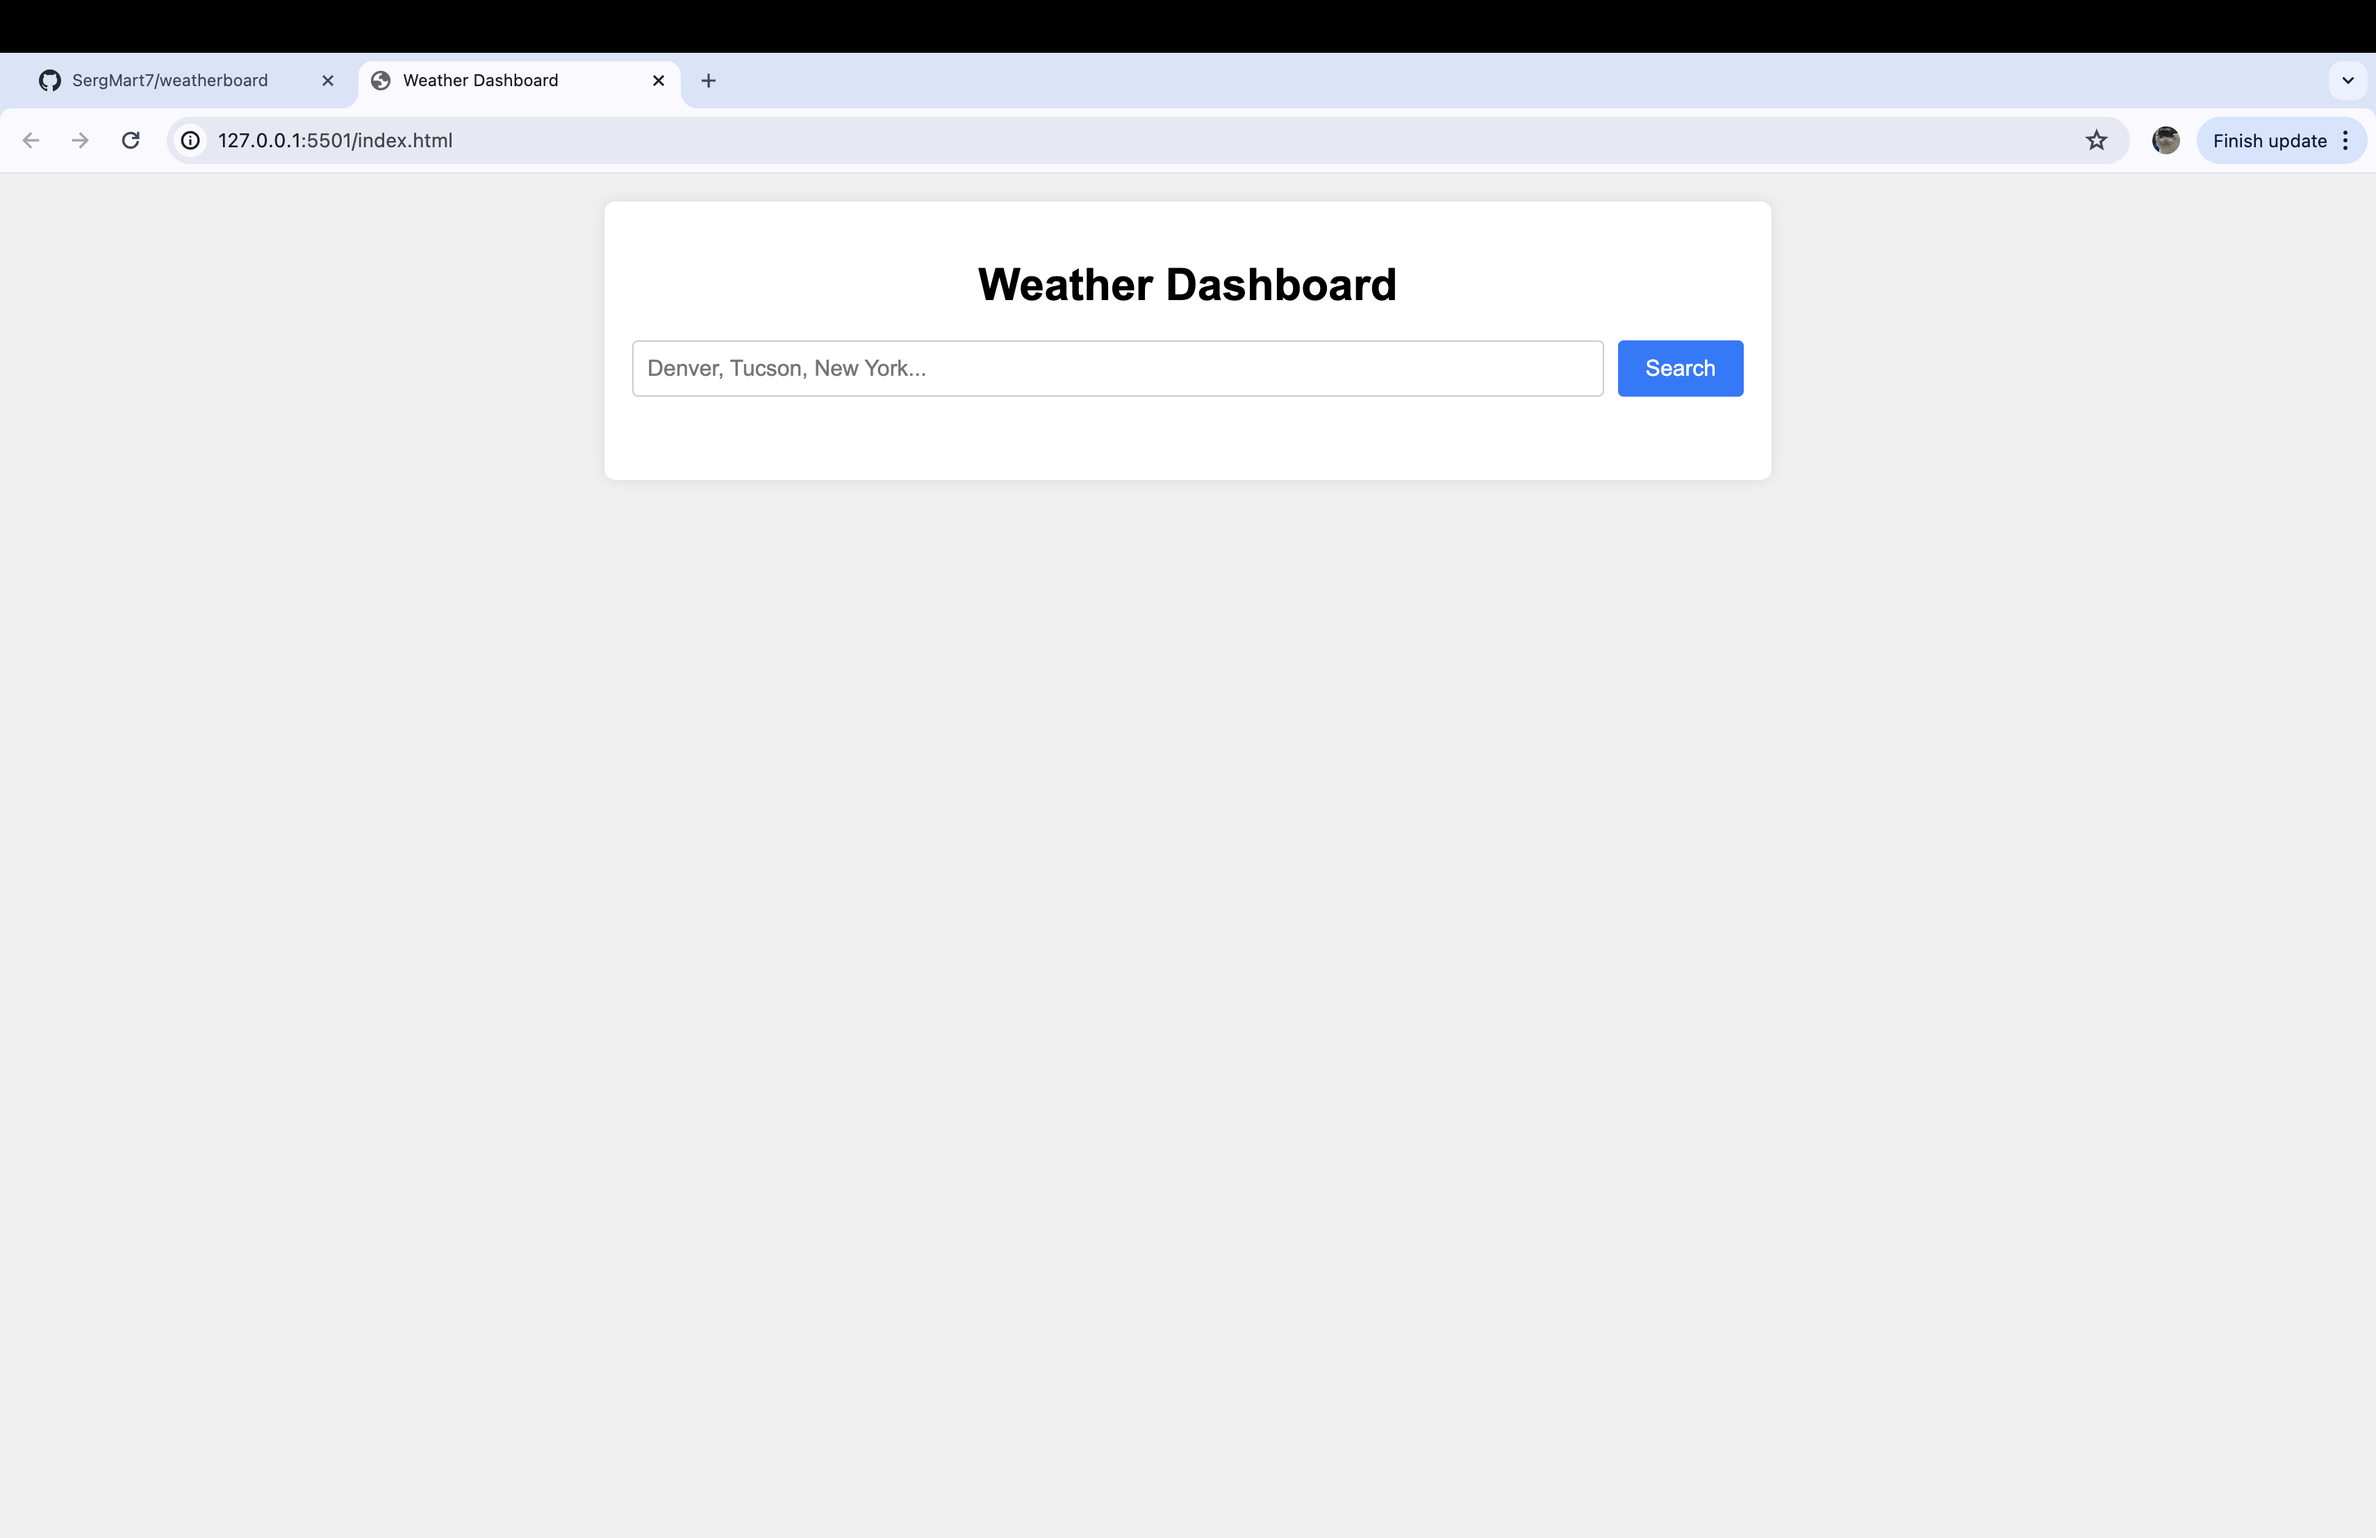
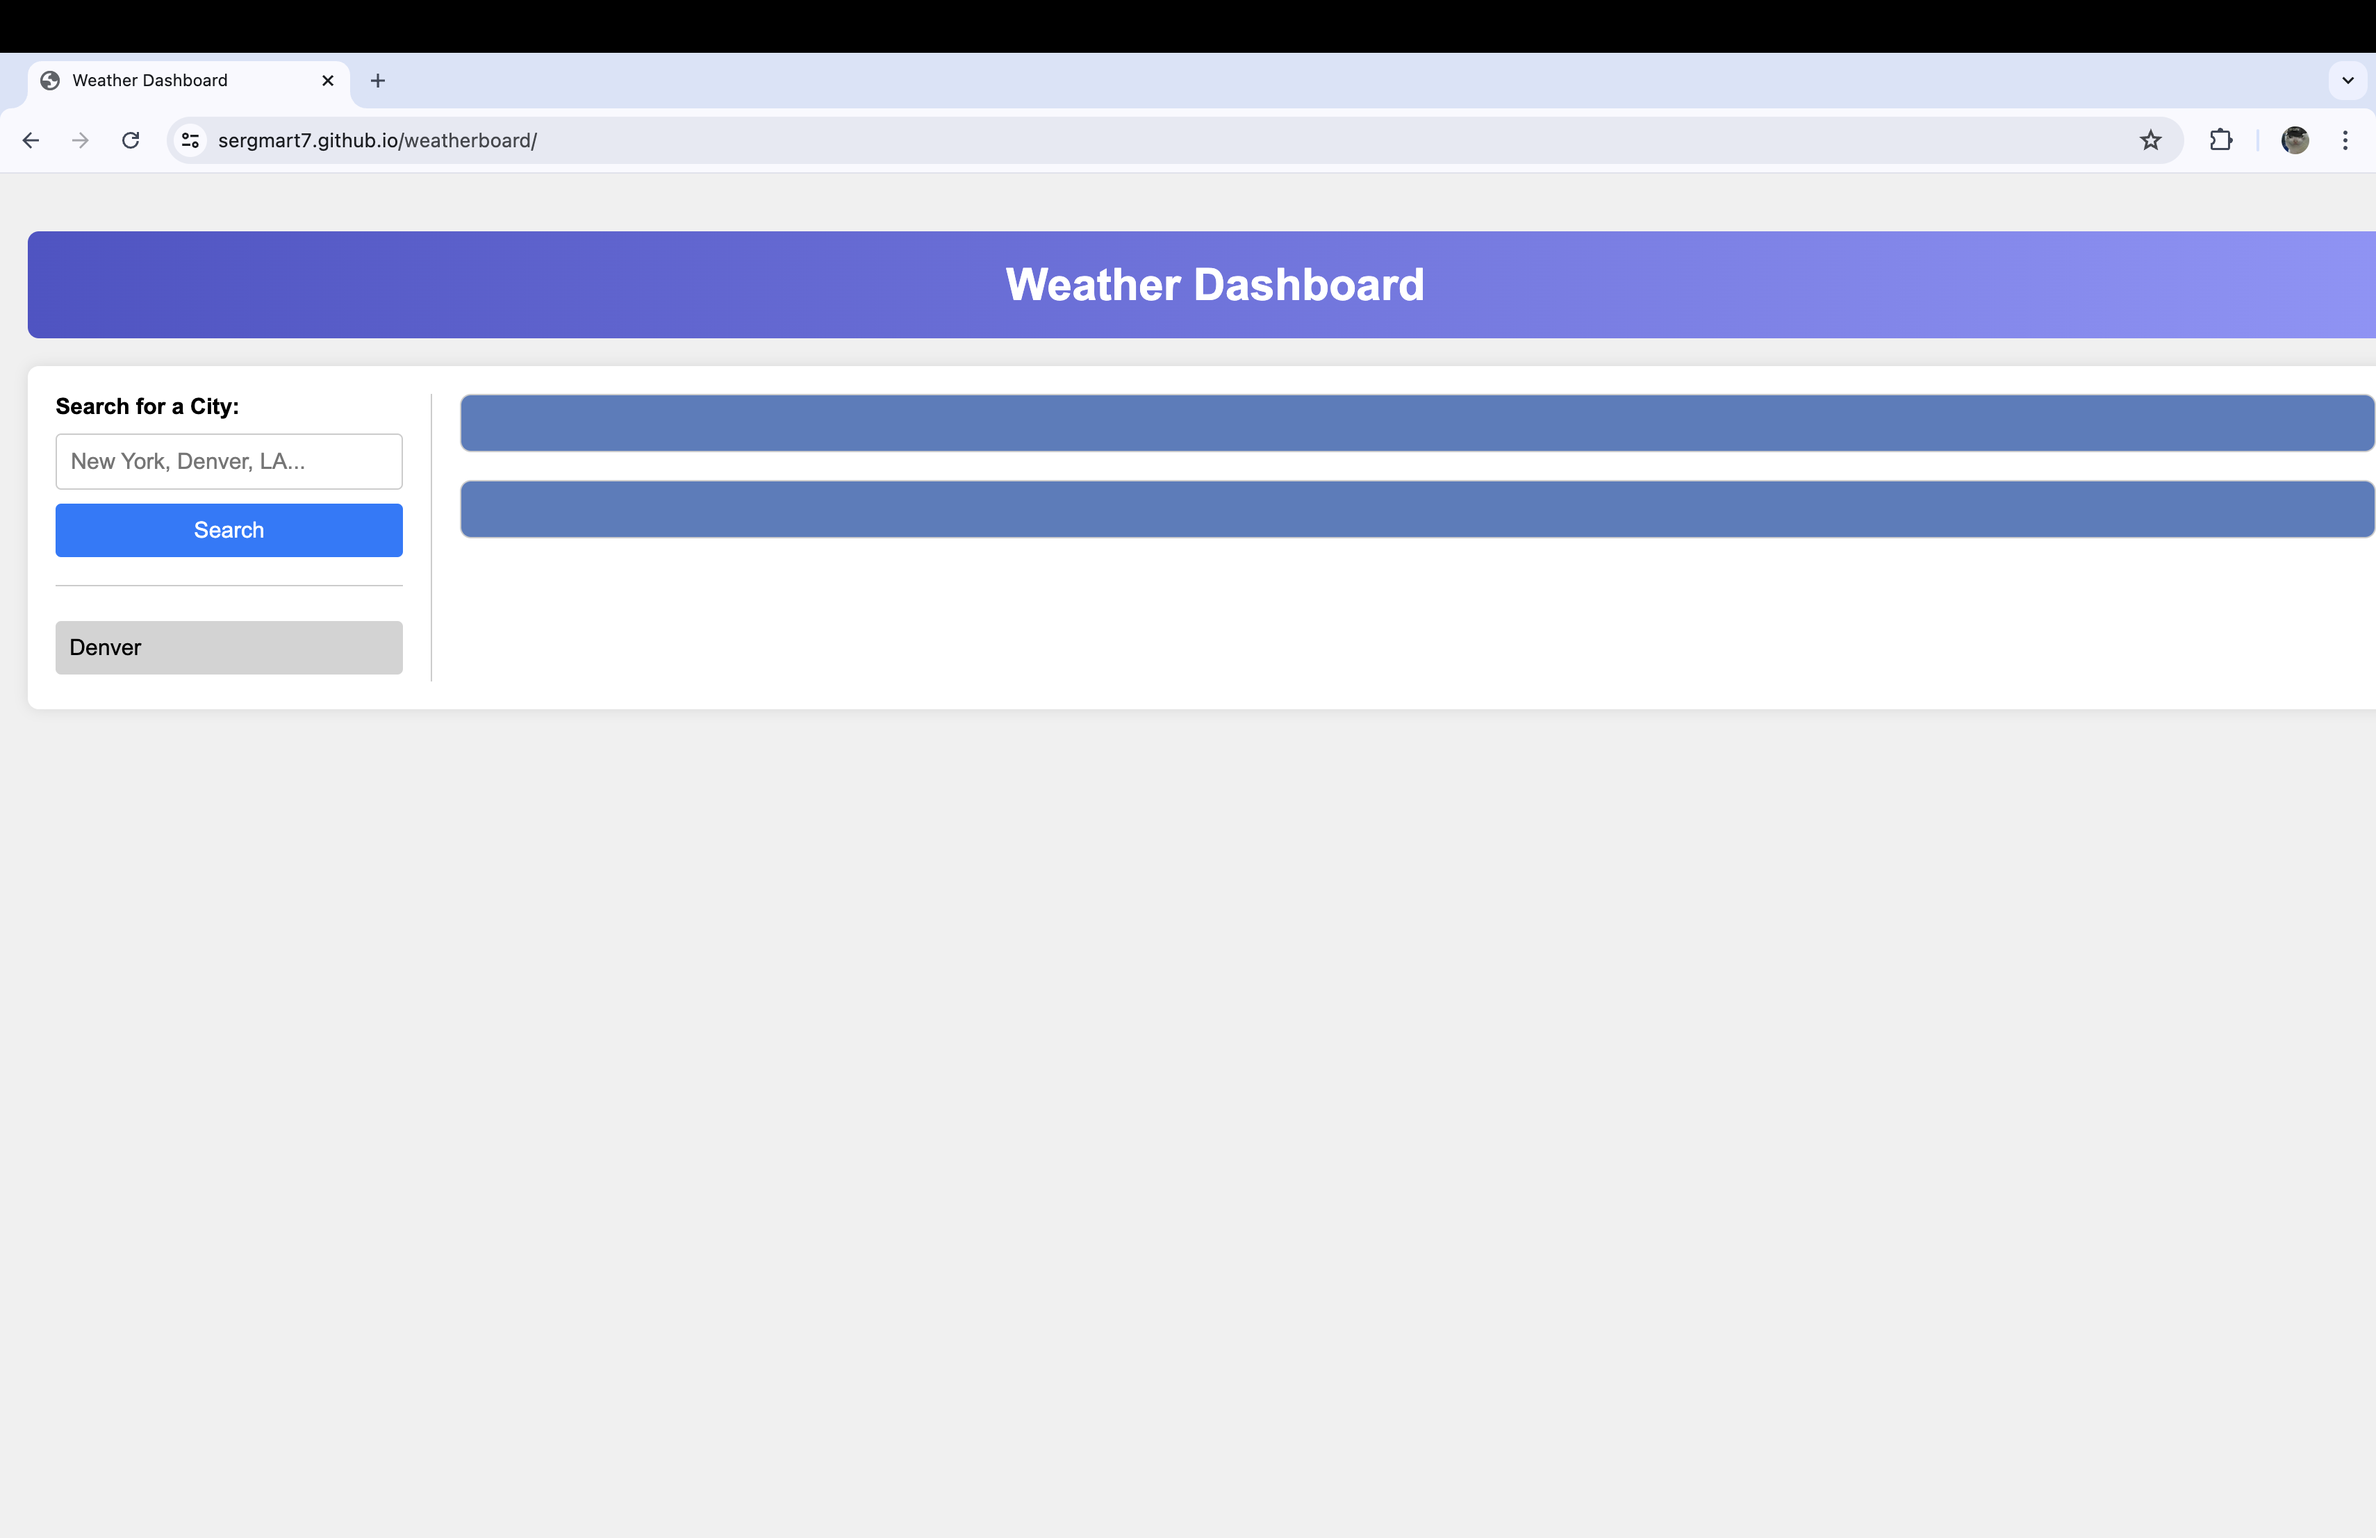
added new screenshots to match our new design

Changed region(s): [[0.0, 0.0623, 1.0, 0.374], [0.0, 0.0312, 0.3099, 0.0935], [0.0, 0.4051, 0.186, 0.4363]]

diff --git a/README.md b/README.md
@@ -14,3 +14,13 @@ Here it is in use:
 ![after one input](./images/ss2.png)
 
 ![after two inputs](./images/ss3.png)
+
+## Links
+
+Website:
+
+https://sergmart7.github.io/weatherboard/
+
+Want to check out the repo? Here you go:
+
+https://github.com/SergMart7/weatherboard
